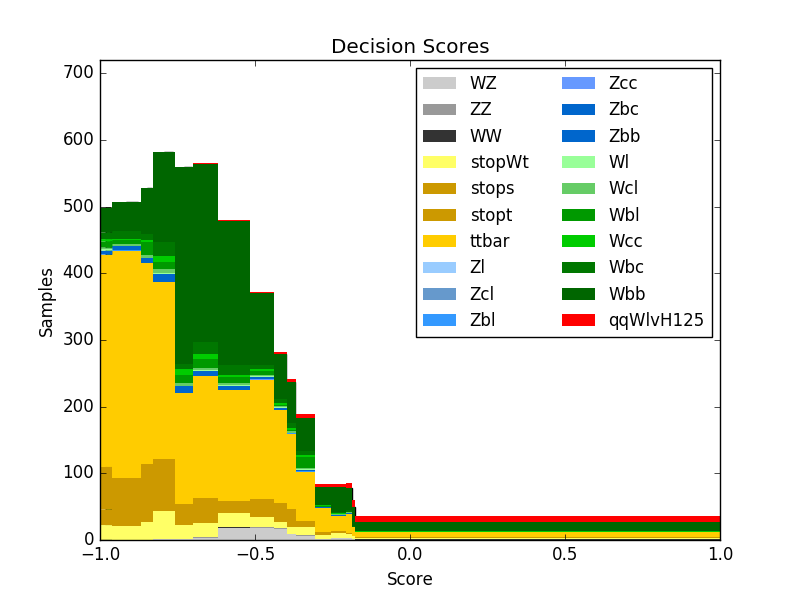
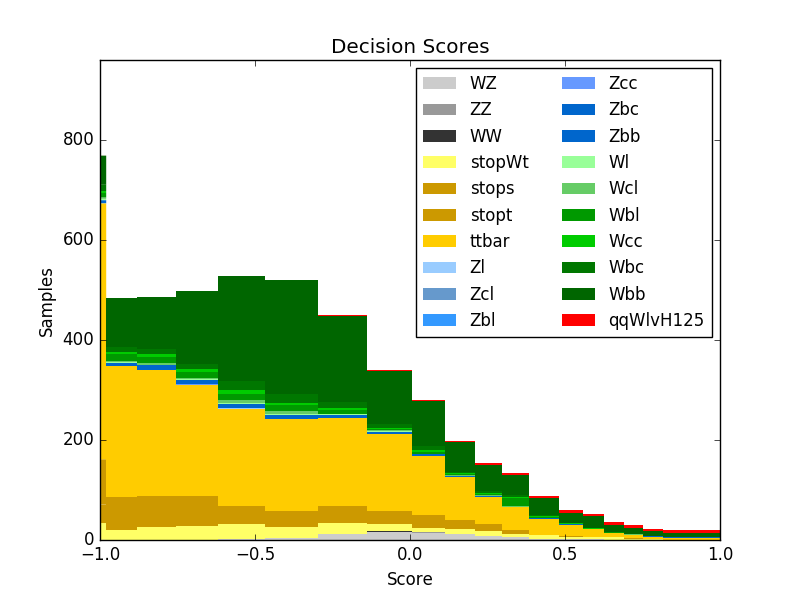
trainBDT generalised to 2/3jets, and event weighting modified to exclude post-fit SFs.

diff --git a/skl_analysis/trainBDT.py b/skl_analysis/trainBDT.py
@@ -38,125 +38,126 @@ for df, njets, i in zip(dfs, (2, 3), range(2)):
     dfs[i] = df
 print "Event list populated."
 
-# REVERT TO 2 JET. Generalise later.
-df = dfs[0]
-events_sig = [a for a in events if a.n_jets == 2 and a.classification == 1]
-events_back = [a for a in events if a.n_jets == 2 and a.classification == 0]
+for njets, i in zip((2,3), range(2)):
+    # REVERT TO 2 JET. Generalise later.
+    df = dfs[i]
+    events_sig = [a for a in events if a.n_jets == njets and a.classification == 1]
+    events_back = [a for a in events if a.n_jets == njets and a.classification == 0]
 
-# Shuffle each into two packs.
-random.shuffle(events_sig)
-random.shuffle(events_back)
+    # Shuffle each into two packs.
+    random.shuffle(events_sig)
+    random.shuffle(events_back)
 
-events_sigA = events_sig[:(len(events_sig) // 2)]
-events_sigB = events_sig[(len(events_sig) // 2):]
-events_backA = events_back[:(len(events_back) // 2)]
-events_backB = events_back[(len(events_back) // 2):]
+    events_sigA = events_sig[:(len(events_sig) // 2)]
+    events_sigB = events_sig[(len(events_sig) // 2):]
+    events_backA = events_back[:(len(events_back) // 2)]
+    events_backB = events_back[(len(events_back) // 2):]
 
-events_A = events_sigA + events_backA
-events_B = events_sigB + events_backB
+    events_A = events_sigA + events_backA
+    events_B = events_sigB + events_backB
 
-# Get indices, weights and classes for each of these splits.
-# w and Y need to be numpy arrays to work with skl.
-indices_A = [a.index for a in events_A]
-indices_B = [a.index for a in events_B]
-w_A = np.array([a.event_weight for a in events_A])
-w_B = np.array([a.event_weight for a in events_B])
-Y_A = np.array([a.classification for a in events_A])
-Y_B = np.array([a.classification for a in events_B])
+    # Get indices, weights and classes for each of these splits.
+    # w and Y need to be numpy arrays to work with skl.
+    indices_A = [a.index for a in events_A]
+    indices_B = [a.index for a in events_B]
+    w_A = np.array([a.event_weight for a in events_A])
+    w_B = np.array([a.event_weight for a in events_B])
+    Y_A = np.array([a.classification for a in events_A])
+    Y_B = np.array([a.classification for a in events_B])
 
-# Index our X training sets by row; convert to ndarrays.
-X_A = df.ix[indices_A].as_matrix()
-X_B = df.ix[indices_B].as_matrix()
+    # Index our X training sets by row; convert to ndarrays.
+    X_A = df.ix[indices_A].as_matrix()
+    X_B = df.ix[indices_B].as_matrix()
 
-print "Commencing BDT training..."
+    print "Commencing BDT training..."
 
-# Set up BDTs and fit
-bdt_A = AdaBoostClassifier(DecisionTreeClassifier(max_depth=3, min_samples_split=0.05),
-                           learning_rate=0.15,
-                           algorithm="SAMME",
-                           n_estimators=200
-                           )
+    # Set up BDTs and fit
+    bdt_A = AdaBoostClassifier(DecisionTreeClassifier(max_depth=3, min_samples_leaf=0.01),
+                               learning_rate=0.15,
+                               algorithm="SAMME",
+                               n_estimators=200
+                               )
 
-bdt_B = AdaBoostClassifier(DecisionTreeClassifier(max_depth=3, min_samples_split=0.05),
-                           learning_rate=0.15,
-                           algorithm="SAMME",
-                           n_estimators=200
-                           )
+    bdt_B = AdaBoostClassifier(DecisionTreeClassifier(max_depth=3, min_samples_leaf=0.01),
+                               learning_rate=0.15,
+                               algorithm="SAMME",
+                               n_estimators=200
+                               )
 
-bdt_A.fit(X_A, Y_A, sample_weight=w_A)
-bdt_B.fit(X_B, Y_B, sample_weight=w_B)
-print "BDT training completed."
+    bdt_A.fit(X_A, Y_A, sample_weight=w_A)
+    bdt_B.fit(X_B, Y_B, sample_weight=w_B)
+    print "BDT training completed."
 
-# Get scores of X_A for BDT_B and vice-versa.
-scores_A = bdt_B.decision_function(X_A).tolist()
-scores_B = bdt_A.decision_function(X_B).tolist()
-print "Non-normalised decision function scores processed."
+    # Get scores of X_A for BDT_B and vice-versa.
+    scores_A = bdt_B.decision_function(X_A).tolist()
+    scores_B = bdt_A.decision_function(X_B).tolist()
+    print "Non-normalised decision function scores processed."
 
-# Normalise decision scores between -1 and 1.
-max_score = max([a for a in scores_A + scores_B])
-min_score = min([a for a in scores_A + scores_B])
-score_range = max_score - min_score
-score_midpoint = min_score + score_range / 2
-# Translate and shrink.
-scores_A = map(lambda a: (a - score_midpoint) / (score_range / 2 + 0.001), scores_A)  # .001 added for bounding
-scores_B = map(lambda a: (a - score_midpoint) / (score_range / 2 + 0.001), scores_B)
+    # Normalise decision scores between -1 and 1.
+    max_score = max([a for a in scores_A + scores_B])
+    min_score = min([a for a in scores_A + scores_B])
+    score_range = max_score - min_score
+    score_midpoint = min_score + score_range / 2
+    # Translate and shrink.
+    scores_A = map(lambda a: (a - score_midpoint) / (score_range / 2 + 0.000001), scores_A)  # .001 added for bounding
+    scores_B = map(lambda a: (a - score_midpoint) / (score_range / 2 + 0.000001), scores_B)
 
 
-print "Updating event objects with decision scores..."
+    print "Updating event objects with decision scores..."
 
-# Process scores to Event objects.
-for e, s in zip(events_A,scores_A):
-    e.set_decision_value(s)
-for e, s in zip(events_B,scores_B):
-    e.set_decision_value(s)
-events = events_A + events_B
-print "Event objects updated."
+    # Process scores to Event objects.
+    for e, s in zip(events_A,scores_A):
+        e.set_decision_value(s)
+    for e, s in zip(events_B,scores_B):
+        e.set_decision_value(s)
+    events_AB = events_A + events_B
+    print "Event objects updated."
 
-# Call TrafoD on Event list.
-# TIME: 0.3562s
-print "Implementing TrafoD histogram bin transform."
-bins = trafoD(events)
+    # Call TrafoD on Event list.
+    # TIME: 0.3562s
+    print "Implementing TrafoD histogram bin transform."
+    bins = trafoD(events_AB)
 
-# Calculate sensitivity.
-# TIME: 0.7216s
-# Sensitivity: 2.654
-# (TMVA Benchmark: 2.976)
-sens = calc_sensitivity(events, bins)
-print "Sensitivity calculation: {}".format(str(sens))
+    # Calculate sensitivity.
+    # TIME: 0.7216s
+    # Sensitivity: 2.656
+    # (TMVA Benchmark: 2.976)
+    sens = calc_sensitivity(events_AB, bins)
+    print "Sensitivity calculation: {}".format(str(sens))
 
-print "Plotting results..."
+    print "Plotting results..."
 
-# Initialise plot stuff
-plt.ion()
-print plt.isinteractive()
-plot_range = (-1, 1)
-class_names = Event.processes
-plot_data = []
-plot_weights = []
-plot_colors = []
+    # Initialise plot stuff
+    plt.ion()
+    plt.clf()
+    plot_range = (-1, 1)
+    class_names = Event.processes
+    plot_data = []
+    plot_weights = []
+    plot_colors = []
 
-# Get list of hists.
-for c in class_names:
-    plot_data.append([a.decision_value for a in events if a.process == c])
-    plot_weights.append([a.event_weight * a.scale_factor for a in events if a.process == c])
-    plot_colors.append(Event.process_color_map[c])
+    # Get list of hists.
+    for c in class_names:
+        plot_data.append([a.decision_value for a in events_AB if a.process == c])
+        plot_weights.append([a.event_weight * a.scale_factor for a in events_AB if a.process == c])
+        plot_colors.append(Event.process_color_map[c])
 
-# Plot.
-plt.hist(plot_data,
-         bins=bins,
-         weights=plot_weights,
-         range=plot_range,
-         rwidth=1,
-         color=plot_colors,
-         label=class_names,
-         stacked=True,
-         edgecolor='None')
-x1, x2, y1, y2 = plt.axis()
-plt.axis((x1, x2, y1, y2 * 1.2))
-plt.legend(loc='upper right', ncol=2, prop={'size': 12})
-plt.ylabel('Samples')
-plt.xlabel('Score')
-plt.title('Decision Scores')
+    # Plot.
+    plt.hist(plot_data,
+             bins=bins,
+             weights=plot_weights,
+             range=plot_range,
+             rwidth=1,
+             color=plot_colors,
+             label=class_names,
+             stacked=True,
+             edgecolor='None')
+    x1, x2, y1, y2 = plt.axis()
+    plt.axis((x1, x2, y1, y2 * 1.2))
+    plt.legend(loc='upper right', ncol=2, prop={'size': 12})
+    plt.ylabel('Samples')
+    plt.xlabel('Score')
+    plt.title('Decision Scores')
 
-plt.savefig('fig.png')
-plt.show(block=True)
+    plt.savefig('fig.png')
+    plt.show(block=True)

diff --git a/skl_analysis/sensitivity.py b/skl_analysis/sensitivity.py
@@ -4,7 +4,7 @@ import math
 from event_obj import *
 
 
-def trafoD(event_list, initial_bins=200, z_s=10, z_b=10):
+def trafoD(event_list, initial_bins=1000, z_s=10, z_b=10):
     """Output optimised histogram bin widths from a list of events"""
 
     # Check that all event decision values are populated
@@ -15,8 +15,8 @@ def trafoD(event_list, initial_bins=200, z_s=10, z_b=10):
     event_list = sorted(event_list, key=lambda a: a.decision_value)
 
     # Get total signal and background.
-    N_tot = sum([a.post_fit_weight for a in event_list])
-    N_s = sum([a.post_fit_weight for a in event_list if a.classification == 1])
+    N_tot = sum([a.event_weight for a in event_list])
+    N_s = sum([a.event_weight for a in event_list if a.classification == 1])
     N_b = N_tot - N_s
 
     # Set up scan parameters.
@@ -55,9 +55,9 @@ def trafoD(event_list, initial_bins=200, z_s=10, z_b=10):
 
                 # Add freq to S/B count.
                 if this_event.classification == 1:
-                    sig_bin += this_event.post_fit_weight
+                    sig_bin += this_event.event_weight
                 else:
-                    back_bin += this_event.post_fit_weight
+                    back_bin += this_event.event_weight
 
             # Update z for current bin.
             z += z_s * sig_bin / N_s + z_b * back_bin / N_b
@@ -163,8 +163,8 @@ def calc_sensitivity(events, bins):
     events_sb = [[a.decision_value for a in events if a.classification == 1],
                  [a.decision_value for a in events if a.classification == 0]]
 
-    weights_sb = [[a.event_weight * a.scale_factor for a in events if a.classification == 1],
-                  [a.event_weight * a.scale_factor for a in events if a.classification == 0]]
+    weights_sb = [[a.event_weight for a in events if a.classification == 1],
+                  [a.event_weight for a in events if a.classification == 0]]
 
     counts_sb = plt.hist(events_sb,
                          bins=bins,
@@ -173,7 +173,10 @@ def calc_sensitivity(events, bins):
     # Reverse the counts before calculating.
     # Zip up S counts with B counts per bin.
     for s, b in zip(counts_sb[0][::-1], counts_sb[1][::-1]):
-        sens += 2 * ((s + b) * math.log(1 + s / b) - s)
+        this_sens = 2 * ((s + b) * math.log(1 + s / b) - s)
+        if not math.isnan(this_sens):
+            sens += this_sens
+
 
     return math.sqrt(sens)
 
